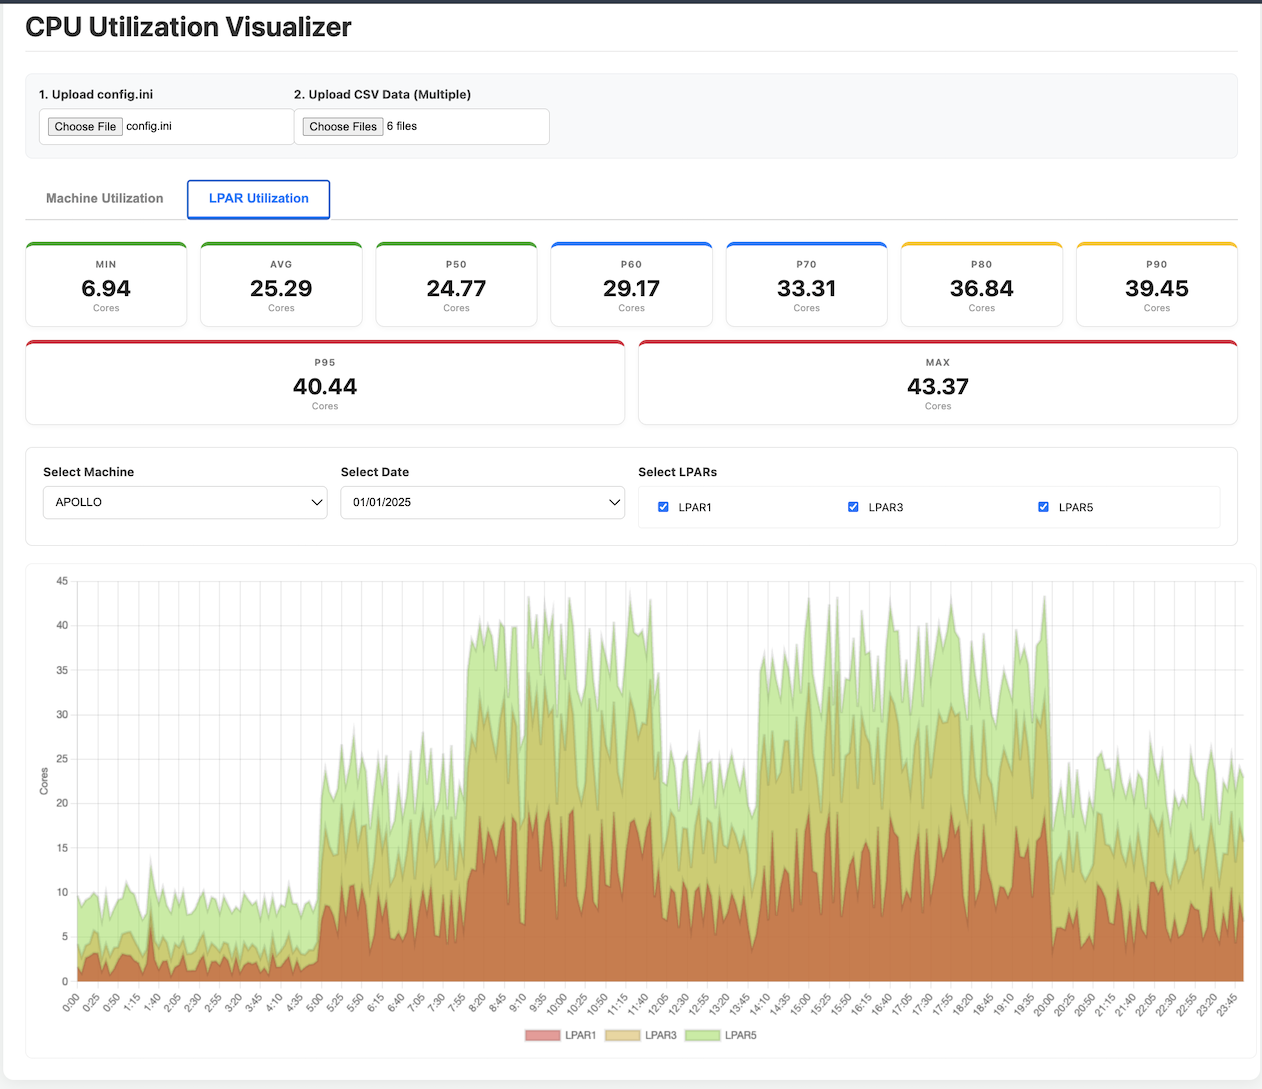
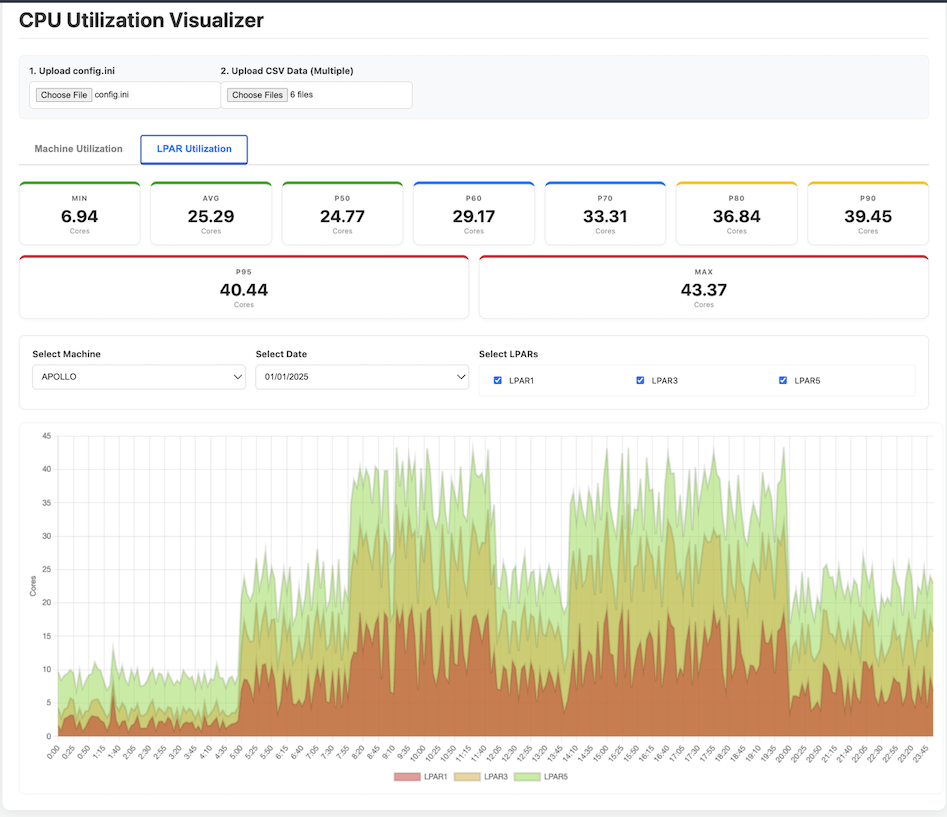
Update capacity planning screenshot

diff --git a/README.md b/README.md
@@ -13,16 +13,13 @@
   - [Screenshots](#screenshots)
     - [Machine CPU Utilization (Sum by Pool)](#machine-cpu-utilization-sum-by-pool)
     - [LPAR CPU Utilization (by Date)](#lpar-cpu-utilization-by-date)
+    - [Capacity Exceed Percentile Planning](#capacity-exceed-percentile-planning)
   - [How to Use](#how-to-use)
   - [Data Formats](#data-formats)
     - [`config.ini`](#configini)
     - [CSV Performance Data](#csv-performance-data)
   - [Example Data Generation (Python)](#example-data-generation-python)
-  - [Architecture \& Data Flow](#architecture--data-flow)
-    - [High-Level Architecture](#high-level-architecture)
-    - [Detailed Data Flow](#detailed-data-flow)
-    - [Component Interaction](#component-interaction)
-    - [State Management](#state-management)
+  - [Architecture](#architecture)
   - [Technologies Used](#technologies-used)
   - [Development](#development)
 
@@ -157,6 +154,10 @@ The Machine Utilization view offers two distinct calculation methods to serve di
 ### LPAR CPU Utilization (by Date)
 
 ![](images/lpar.png)
+
+### Capacity Exceed Percentile Planning
+
+![](images/exceed-percentile-planning.png)
 
 ## How to Use
 
